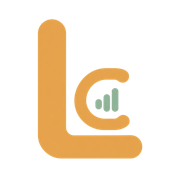
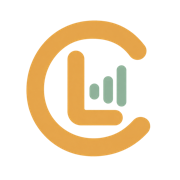
Revert "Make LiveCoach mark read LC (#201)" (#202)
This reverts commit 102e8f2a013eb432646079ffba8f6c41ec37e429.

Changed region(s): [[0.1389, 0.0833, 0.8611, 0.8889]]

diff --git a/components/LiveCoachLogo.tsx b/components/LiveCoachLogo.tsx
@@ -10,22 +10,22 @@ export function LiveCoachMark({ className = "h-8 w-8", ...props }: SVGProps<SVGS
       {...props}
     >
       <path
-        d="M14 10v42h39"
+        d="M49 15.5a25 25 0 1 0 .7 32"
         stroke="currentColor"
-        strokeWidth="8"
+        strokeWidth="7.5"
+        strokeLinecap="round"
+      />
+      <path
+        d="M25.5 21.5v21h17"
+        stroke="currentColor"
+        strokeWidth="6"
         strokeLinecap="round"
         strokeLinejoin="round"
       />
       <path
-        d="M49 27.5a13.5 13.5 0 1 0 0 15"
-        stroke="currentColor"
-        strokeWidth="5.5"
-        strokeLinecap="round"
-      />
-      <path
-        d="M36 36v1M41 33.5v4M46 31v6.5"
+        d="M35 34v2M41 30v6M47 26v10"
         stroke="rgb(var(--lc-sage))"
-        strokeWidth="3"
+        strokeWidth="4"
         strokeLinecap="round"
       />
     </svg>
